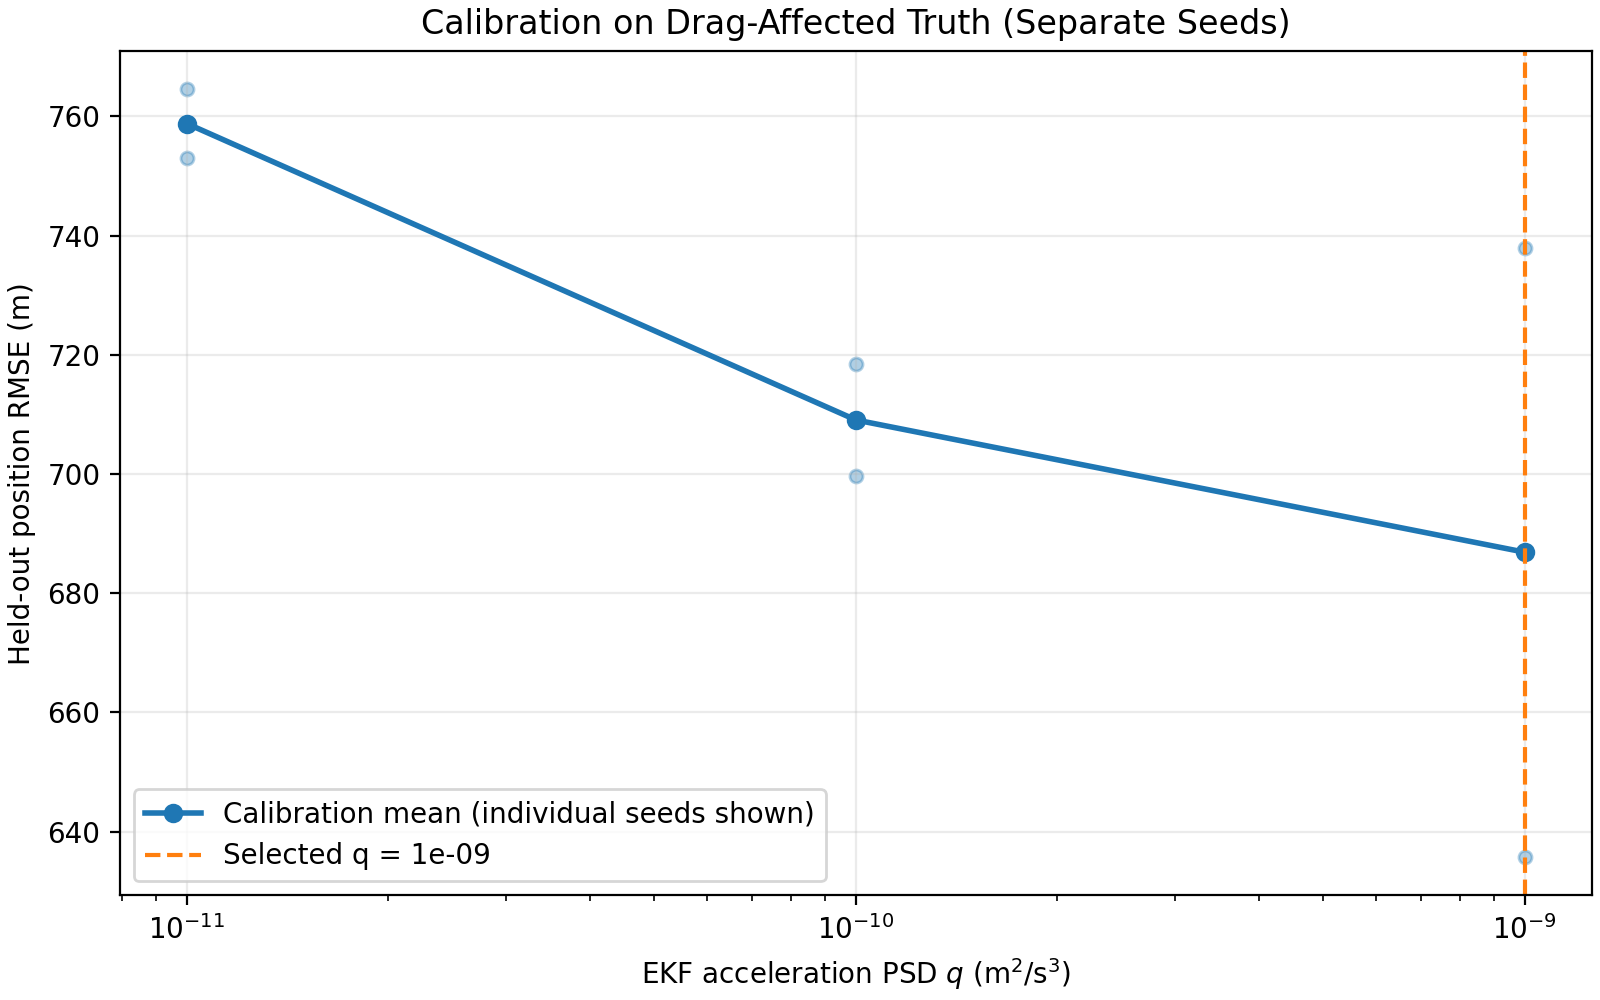
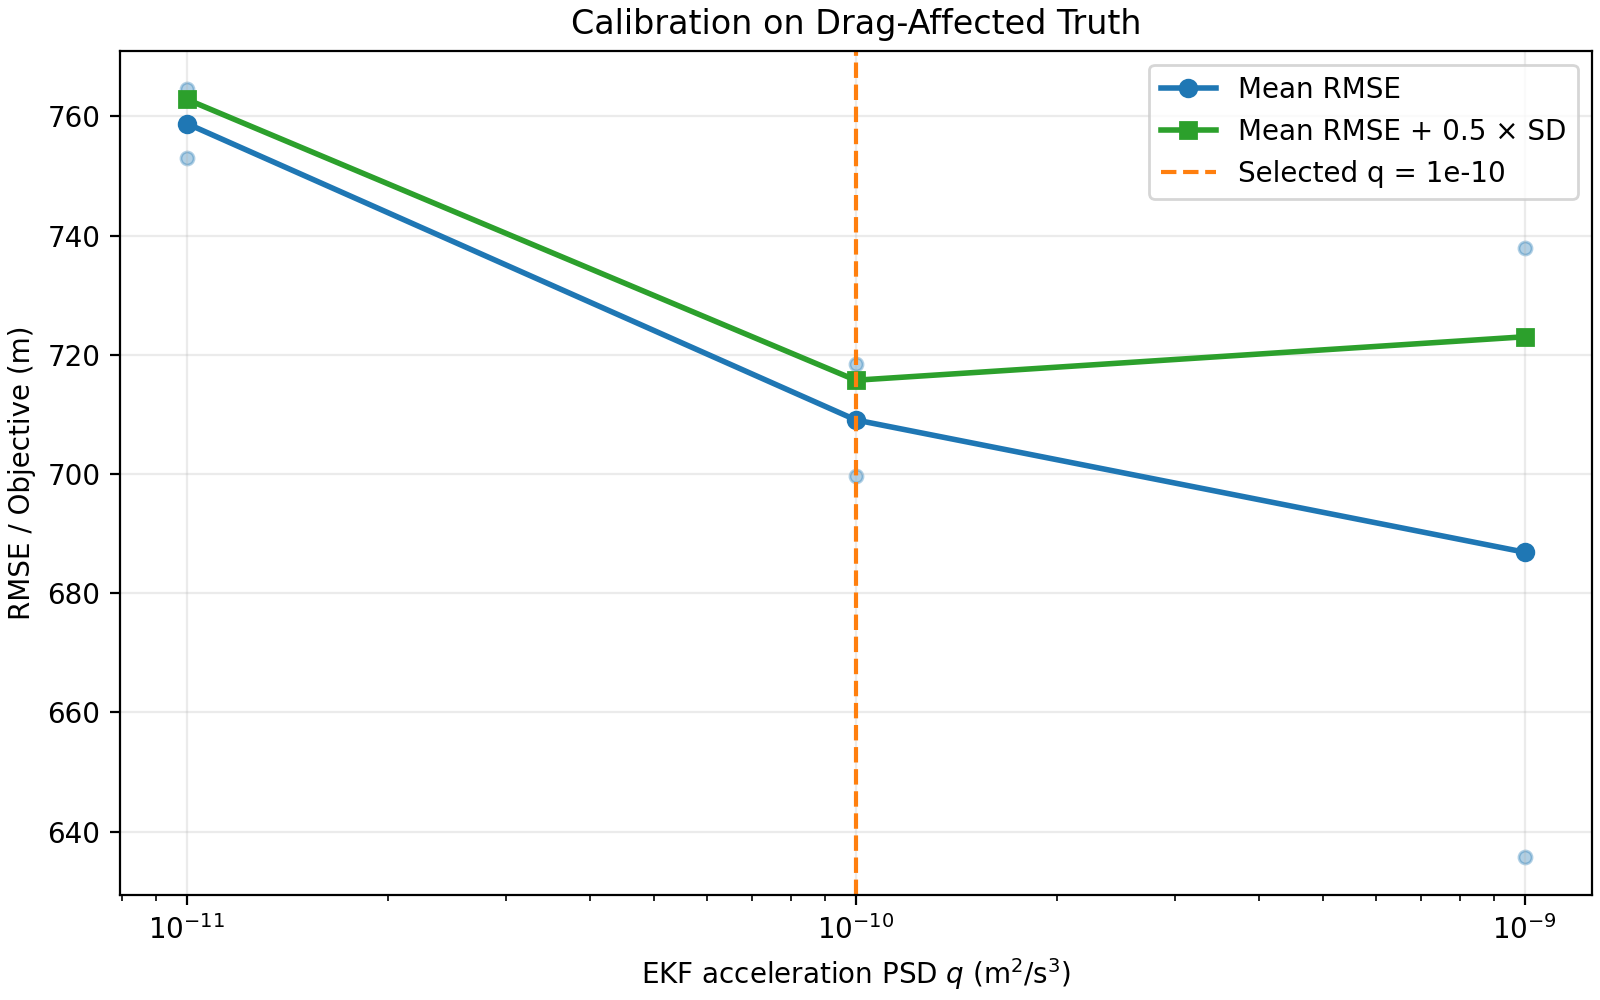
Re-done quick check

diff --git a/src/ground_stations.py b/src/ground_stations.py
@@ -16,7 +16,7 @@ from .constants import OMEGA_EARTH, R_EARTH, WGS84_FLATTENING
 
 @dataclass(frozen=True)
 class GroundStation:
-    """An idealized tracking station on the surface of a spherical Earth.
+    """An idealized tracking station on the surface of the WGS84 ellipsoid.
 
     Parameters
     ----------

diff --git a/README.md b/README.md
@@ -4,7 +4,7 @@ This project compares two methods for estimating a satellite's orbit from interm
 
 The simulator follows a low-Earth-orbit satellite for 24 hours. Three ground stations measure its range and range rate whenever it is above their elevation masks. The first 12 hours of observations are used to estimate the orbit; both methods then predict the next 12 hours without new measurements.
 
-There are two versions of the simulated orbit: gravity with J2, and gravity with J2 plus atmospheric drag. **Both estimators always use the gravity + J2 model.** This makes it possible to separate errors from noisy observations from errors caused by missing physics.
+There are two versions of the simulated orbit: gravity with J2, and gravity with J2 plus atmospheric drag. Both estimators always use the gravity + J2 model. This makes it possible to separate errors from noisy observations from errors caused by missing physics.
 
 ## Simulation
 
